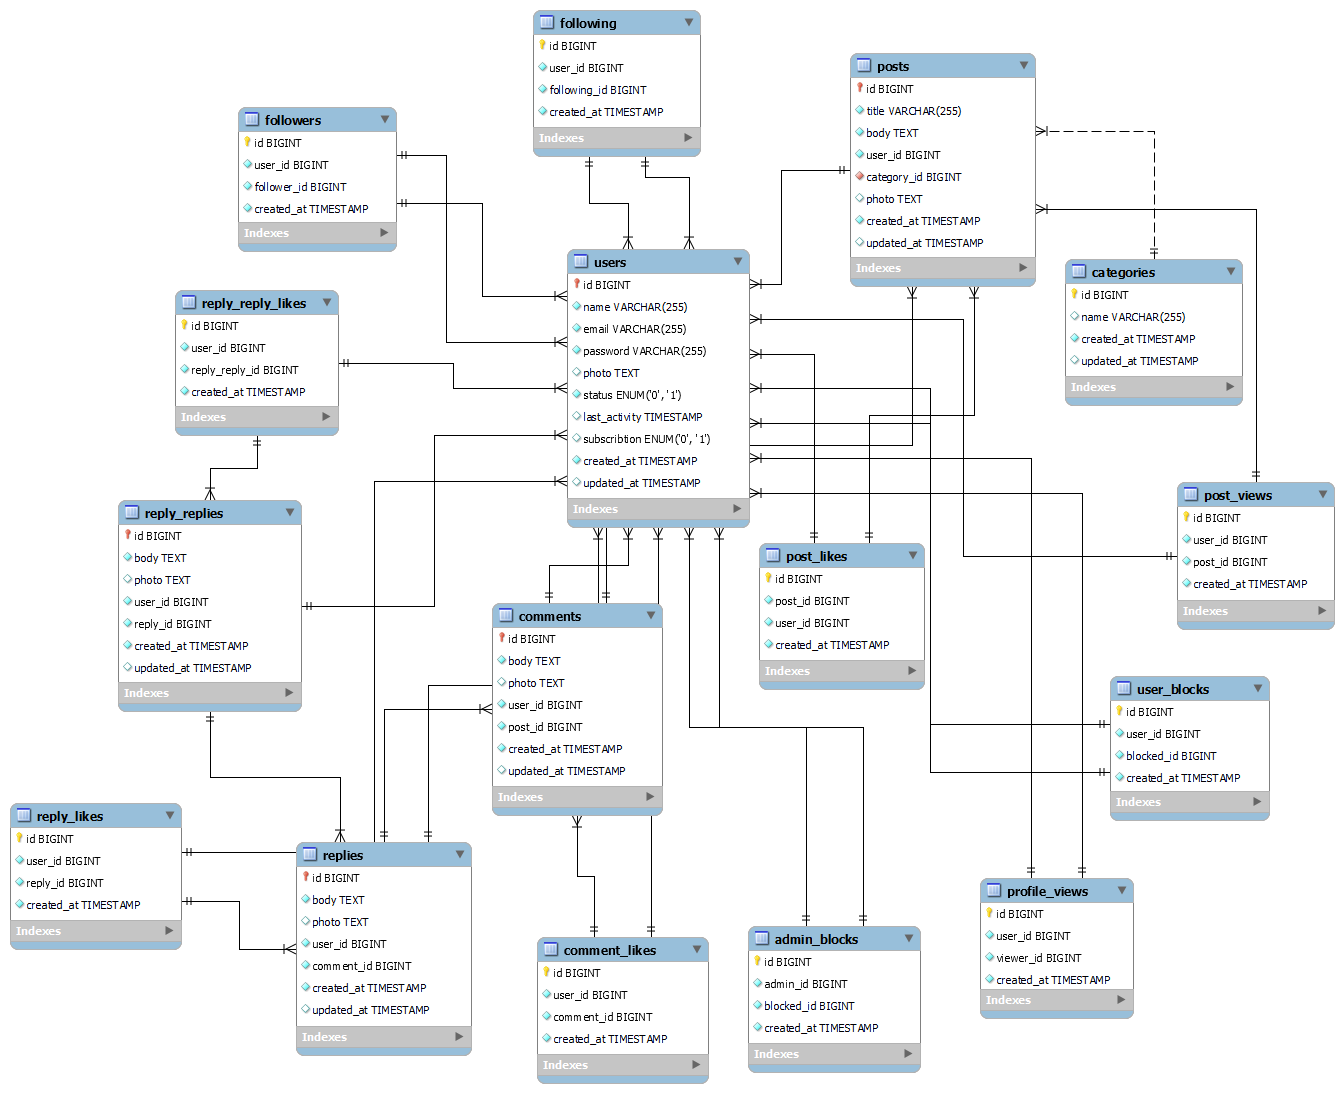
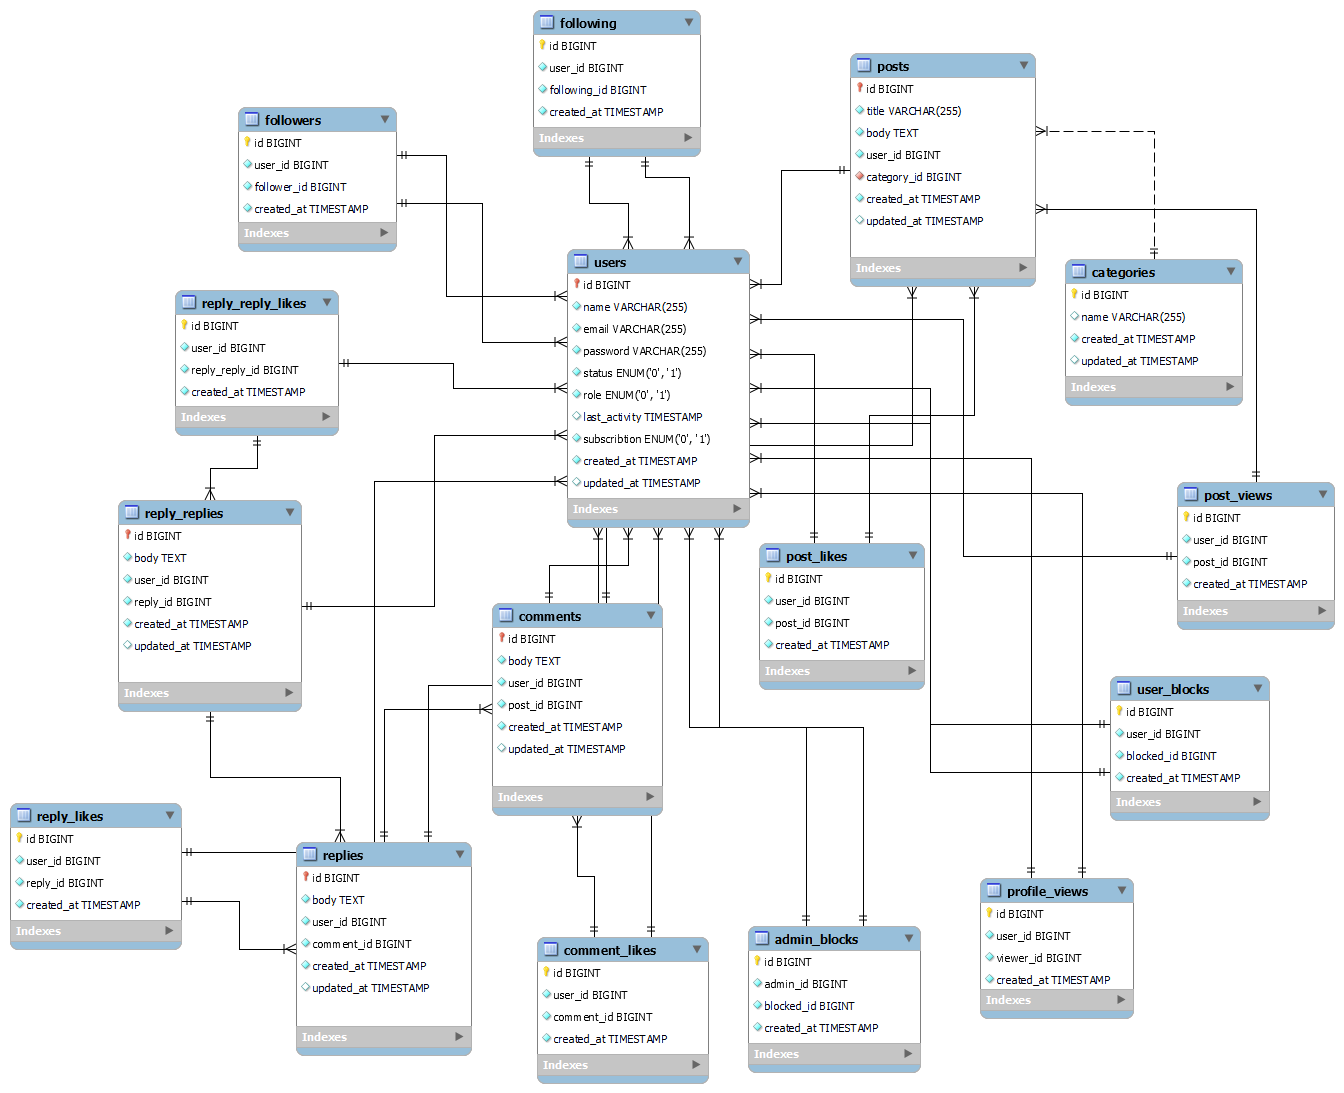
first commit

diff --git a/app/Http/Controllers/api/PostController.php b/app/Http/Controllers/api/PostController.php
@@ -22,7 +22,6 @@ class PostController extends Controller
             'body'=>$request->body,
             'user_id'=>Auth()->User()->id,
             'category_id'=>$request->category_id,
-            'photo'=>$request->photo
         ]);
         return $this->apiResponse($post,'Post stored successfully',201);
     }
@@ -74,7 +73,6 @@ class PostController extends Controller
                 'body'=>$request->body,
                 'user_id'=>Auth()->User()->id,
                 'category_id'=>$request->category_id,
-                'photo'=>$request->photo
             ]);
             $updated_post=Post::find($id);
             return $this->apiResponse($updated_post,'Post updated successfully',200);

diff --git a/app/Http/Controllers/api/ReplyReplyController.php b/app/Http/Controllers/api/ReplyReplyController.php
@@ -18,7 +18,6 @@ class ReplyReplyController extends Controller
     public function store(ReplyReplyRequest $request){
         $reply_reply=ReplyReply::create([
             'body'=>$request->body,
-            'photo'=>$request->photo,
             'user_id'=>Auth()->User()->id,
             'reply_id'=>$request->reply_id
         ]);
@@ -50,7 +49,6 @@ class ReplyReplyController extends Controller
             }
             $reply_reply->update([
                 'body'=>$request->body,
-                'photo'=>$request->photo
             ]);
             $updated_reply_reply=ReplyReply::find($id);
             return $this->apiResponse($updated_reply_reply,'Reply reply updated successfully',200);

diff --git a/app/Http/Controllers/api/CommentController.php b/app/Http/Controllers/api/CommentController.php
@@ -18,7 +18,6 @@ class CommentController extends Controller
     public function store(CommentRequest $request){
         $comment=Comment::create([
             'body'=>$request->body,
-            'photo'=>$request->photo,
             'user_id'=>Auth()->User()->id,
             'post_id'=>$request->post_id
         ]);
@@ -50,7 +49,6 @@ class CommentController extends Controller
             }
             $comment->update([
                 'body' => $request->body,
-                'photo' => $request->photo,
             ]);
             $comment = Comment::find($id);
             return $this->apiResponse($comment, 'Comment updated successfully', 200);

diff --git a/app/Http/Controllers/api/ReplyController.php b/app/Http/Controllers/api/ReplyController.php
@@ -17,7 +17,6 @@ class ReplyController extends Controller
     public function store(ReplyRequest $request){
         $reply=Reply::create([
             'body'=>$request->body,
-            'photo'=>$request->photo,
             'user_id'=>Auth()->User()->id,
             'comment_id'=>$request->comment_id
         ]);
@@ -49,7 +48,6 @@ class ReplyController extends Controller
             }
             $reply->update([
                 'body'=>$request->body,
-                'photo'=>$request->photo
             ]);
         $updated_reply=Reply::find($id);
             return $this->apiResponse($updated_reply,'Reply updated successfully',200);

diff --git a/app/Http/Controllers/api/AdminController.php b/app/Http/Controllers/api/AdminController.php
@@ -13,10 +13,12 @@ class AdminController extends Controller
 
     // block a user
     public function block(Request $request){
+
         // check if admin already blocked user
         $existing_block = AdminBlock::where('admin_id', Auth()->User()->id)
             ->where('following_id', $request->blocked_id)
             ->first();
+
         // if block exists
         if($existing_block){
             $existing_block->delete();

diff --git a/database/migrations/2023_09_21_172315_create_reply_replies_table.php b/database/migrations/2023_09_21_172315_create_reply_replies_table.php
@@ -14,7 +14,6 @@ return new class extends Migration
         Schema::create('reply_replies', function (Blueprint $table) {
             $table->id();
             $table->text('body');
-            $table->text('photo')->nullable();
             $table->unsignedBigInteger('user_id');
             $table->unsignedBigInteger('reply_id');
             $table->foreign('user_id')->references('id')->on('users')->cascadeOnDelete();

diff --git a/database/migrations/2023_09_21_171604_create_replies_table.php b/database/migrations/2023_09_21_171604_create_replies_table.php
@@ -14,7 +14,6 @@ return new class extends Migration
         Schema::create('replies', function (Blueprint $table) {
             $table->id();
             $table->text('body');
-            $table->text('photo')->nullable();
             $table->unsignedBigInteger('user_id');
             $table->unsignedBigInteger('comment_id');
             $table->foreign('user_id')->references('id')->on('users')->cascadeOnDelete();

diff --git a/database/migrations/2023_09_21_171232_create_comments_table.php b/database/migrations/2023_09_21_171232_create_comments_table.php
@@ -14,7 +14,6 @@ return new class extends Migration
         Schema::create('comments', function (Blueprint $table) {
             $table->id();
             $table->text('body');
-            $table->text('photo')->nullable();
             $table->unsignedBigInteger('user_id');
             $table->unsignedBigInteger('post_id');
             $table->foreign('user_id')->references('id')->on('users')->cascadeOnDelete();

diff --git a/database/migrations/2023_09_21_164716_create_posts_table.php b/database/migrations/2023_09_21_164716_create_posts_table.php
@@ -15,7 +15,6 @@ return new class extends Migration
             $table->id();
             $table->string('title');
             $table->text('body');
-            $table->text('photo')->nullable();
             $table->unsignedBigInteger('user_id');
             $table->unsignedBigInteger('category_id');
             $table->foreign('user_id')->references('id')->on('users')->cascadeOnDelete();

diff --git a/database/migrations/2014_10_12_000000_create_users_table.php b/database/migrations/2014_10_12_000000_create_users_table.php
@@ -16,7 +16,6 @@ return new class extends Migration
             $table->string('name');
             $table->string('email')->unique();
             $table->string('password');
-            $table->text('photo')->nullable();
             $table->enum('status',[0,1])->default(0);
             $table->enum('role',[0,1])->default(0);
             $table->timestamp('last_active');

diff --git a/app/Models/ReplyReply.php b/app/Models/ReplyReply.php
@@ -10,7 +10,6 @@ class ReplyReply extends Model
     use HasFactory;
     protected $fillable=[
         'body',
-        'photo',
         'user_id',
         'reply_id'
     ];

diff --git a/app/Models/Comment.php b/app/Models/Comment.php
@@ -10,7 +10,6 @@ class Comment extends Model
     use HasFactory;
     protected $fillable=[
         'body',
-        'photo',
         'user_id',
         'comment_id'
     ];
